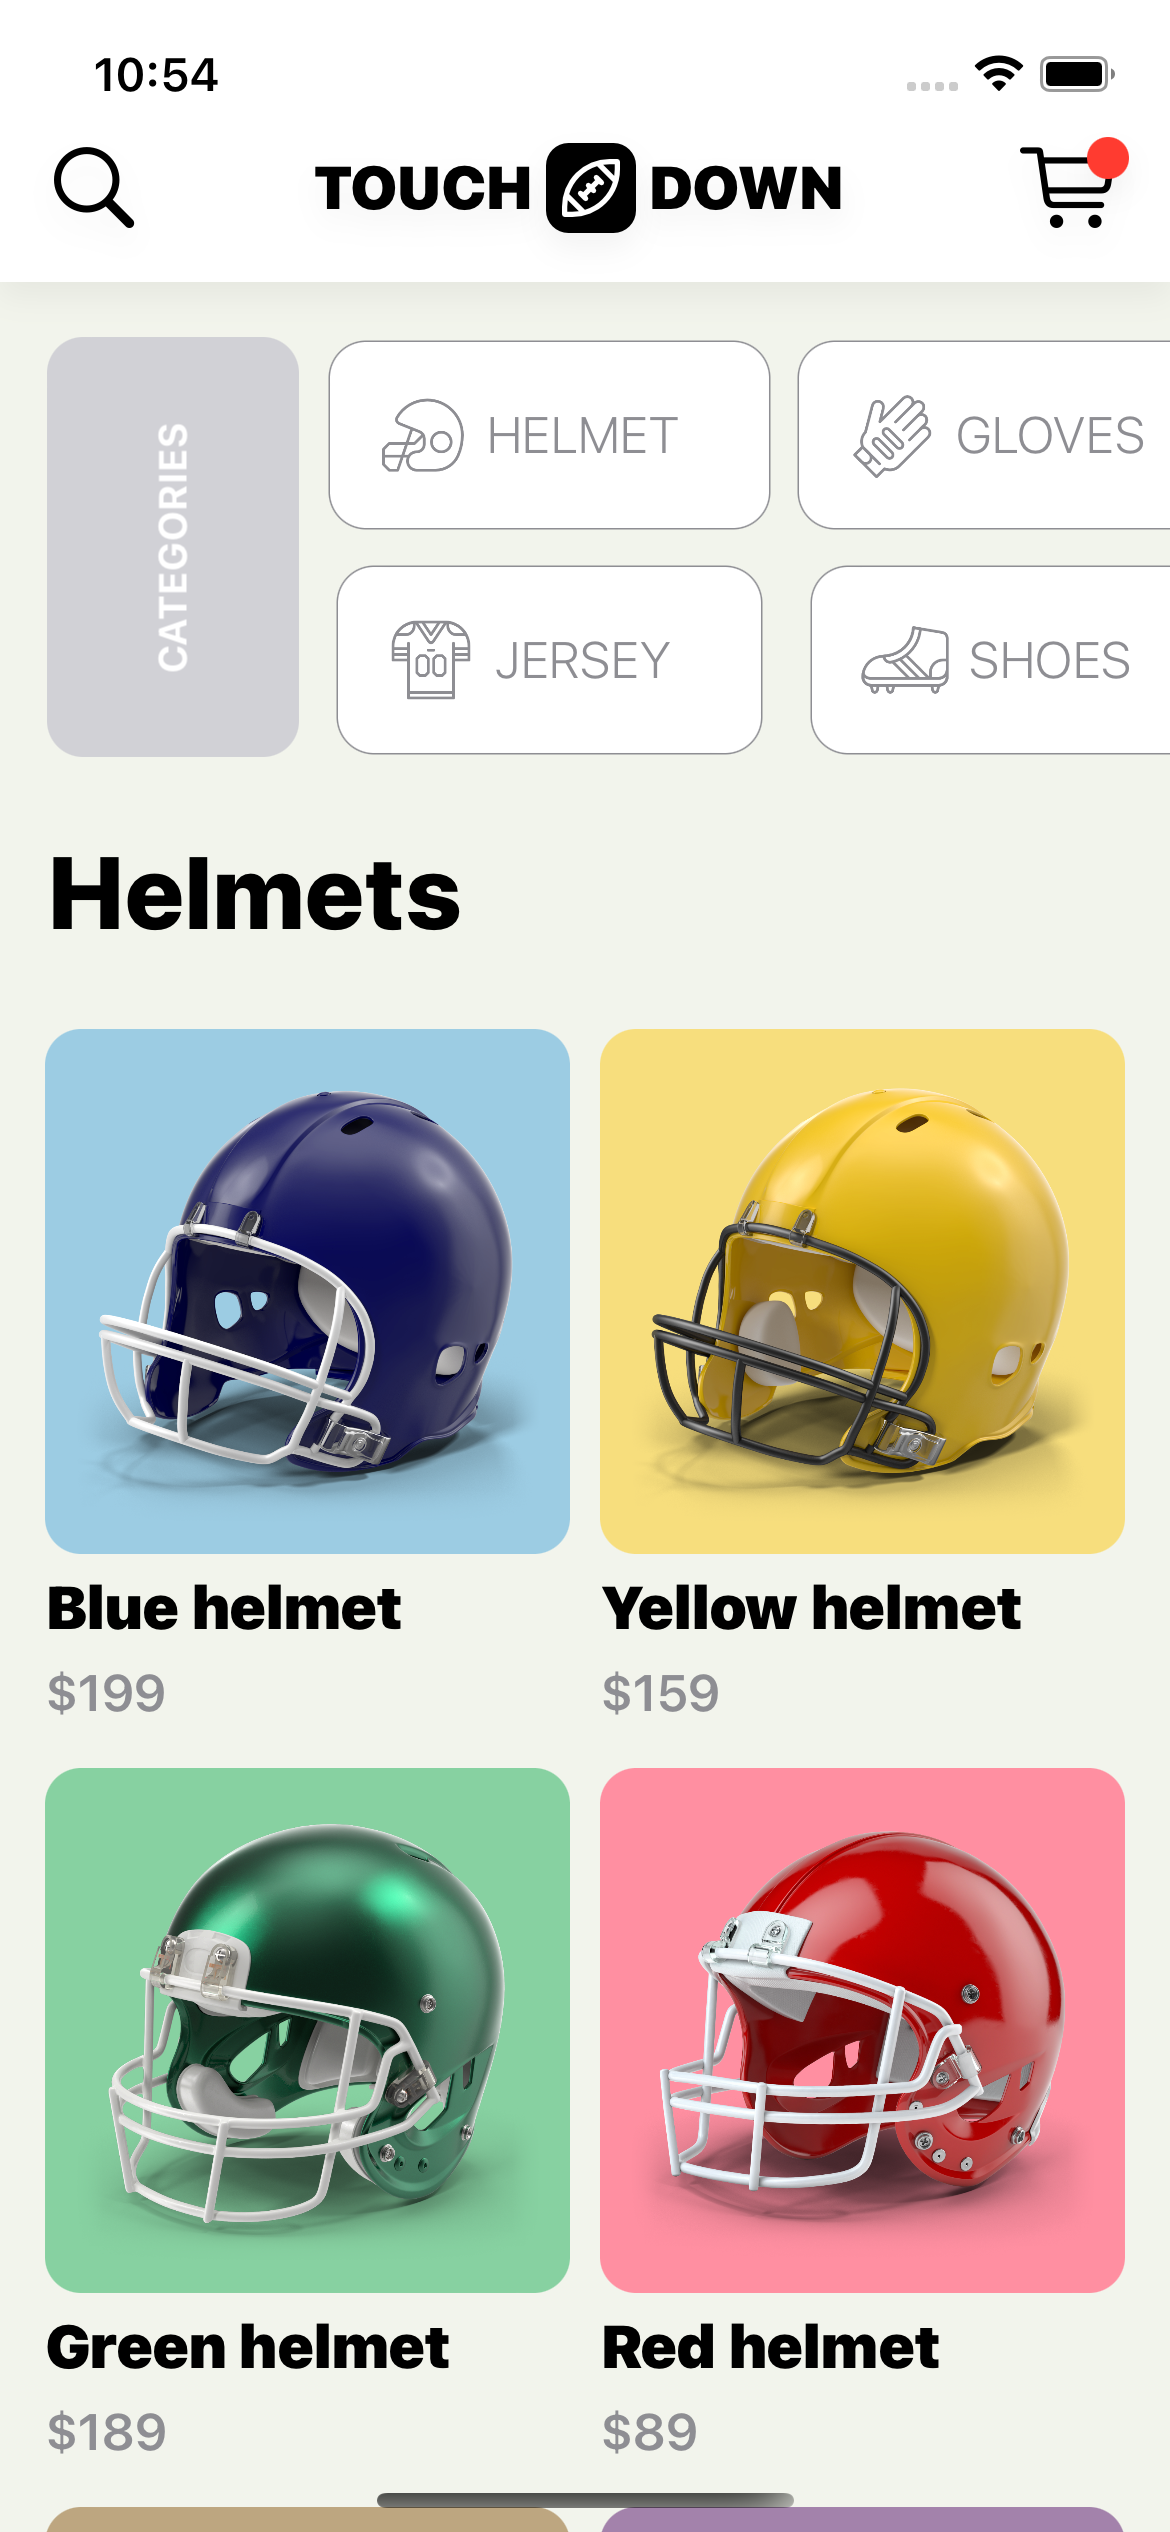
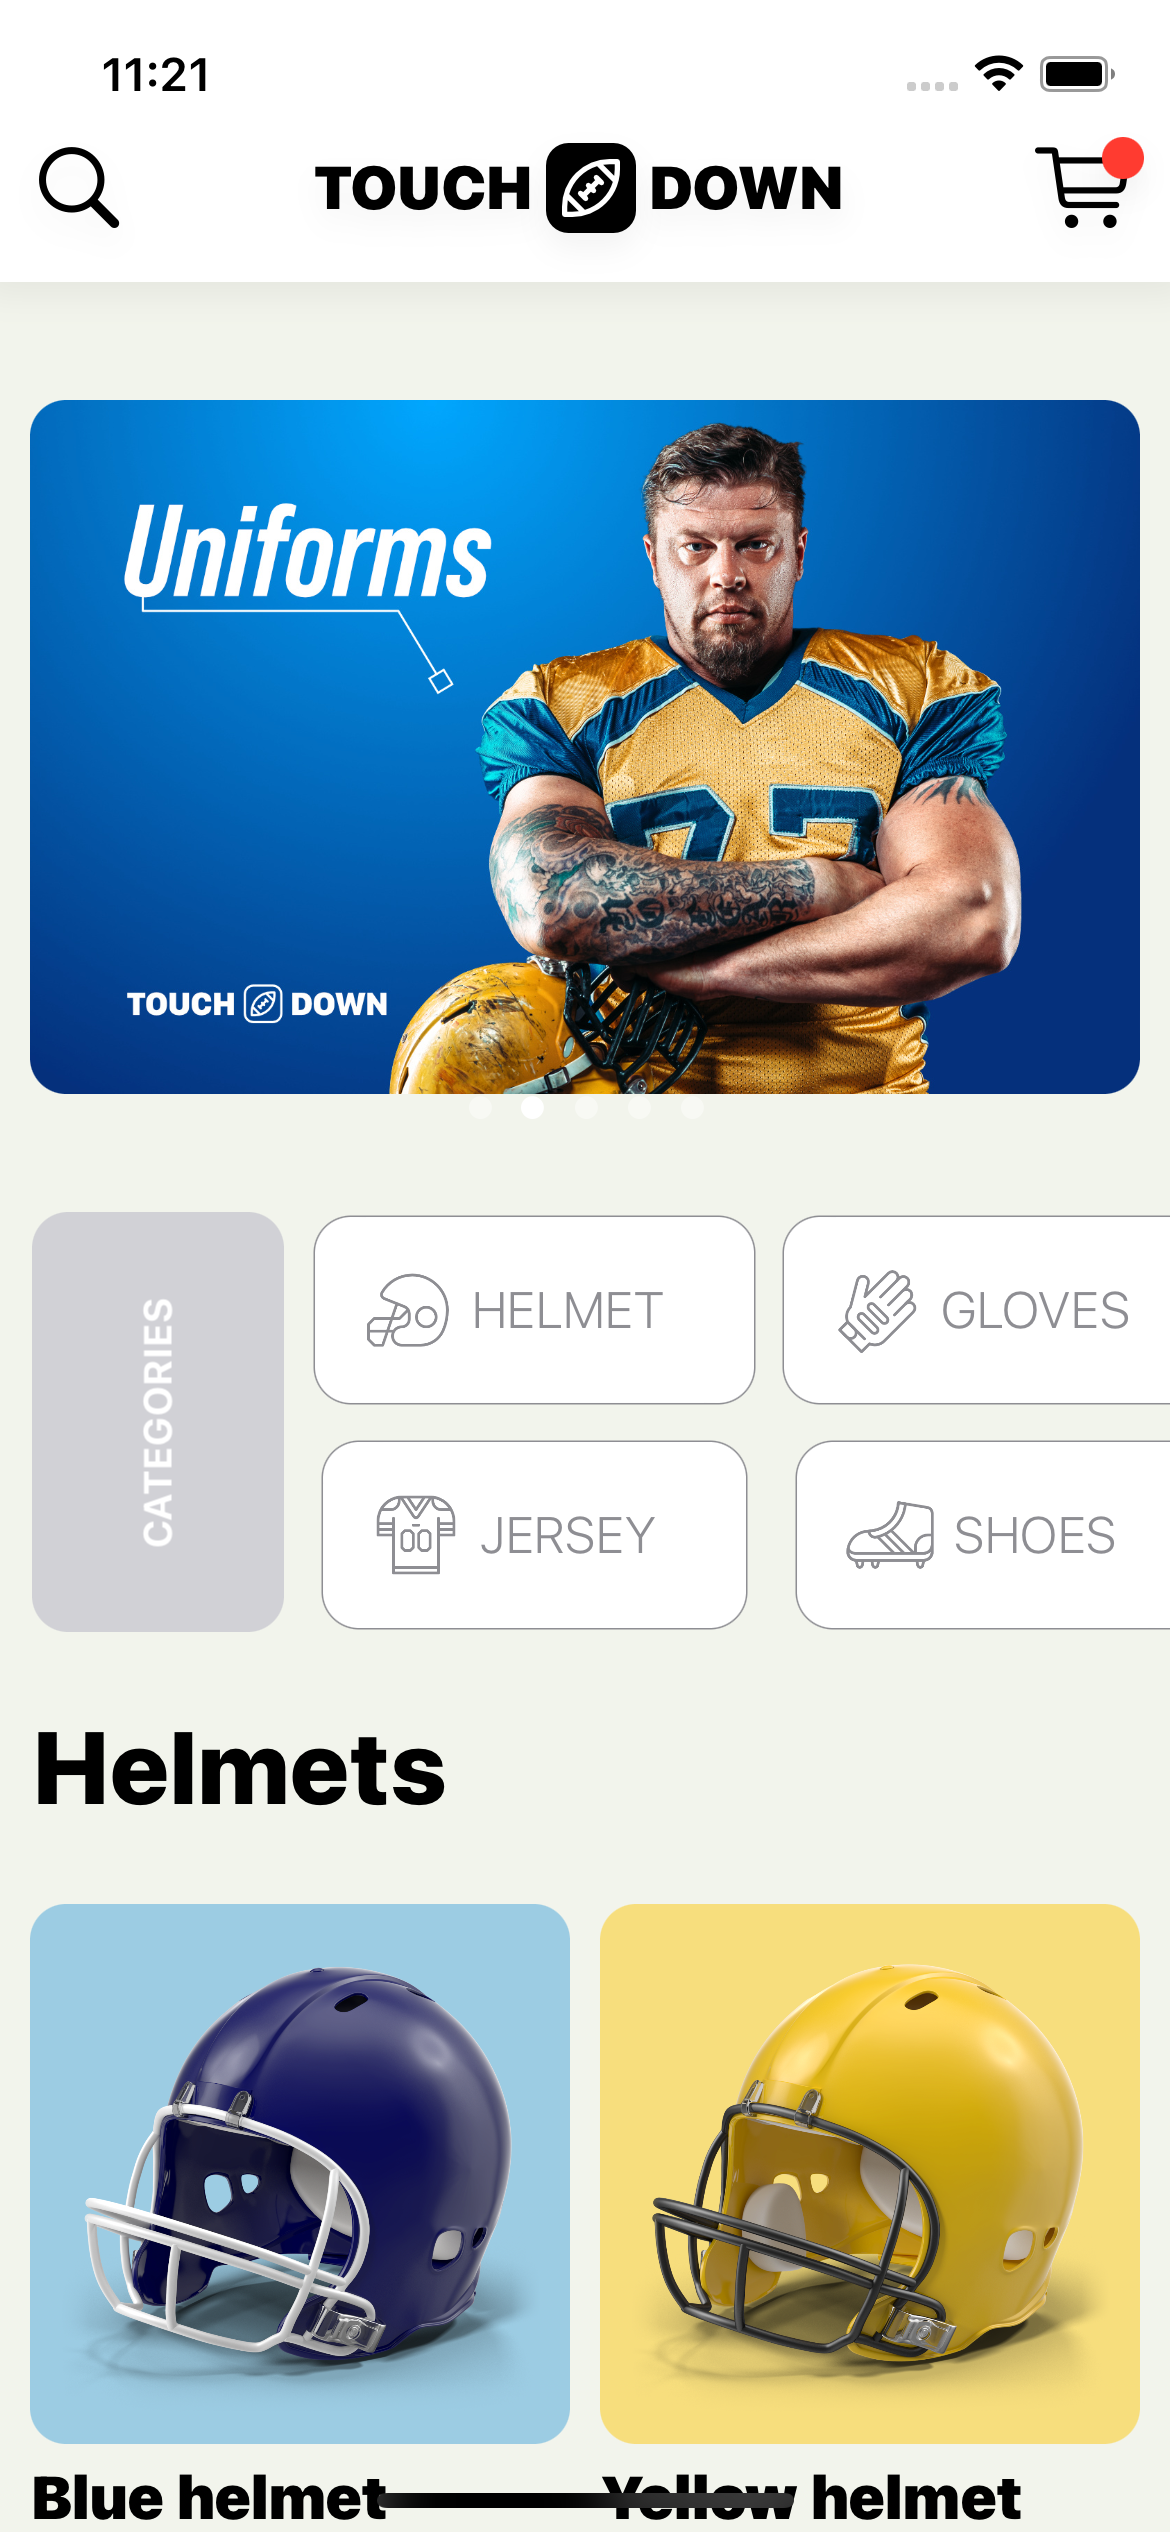
Updated screenshot. Updated readme file.

diff --git a/README.md b/README.md
@@ -1,10 +1,5 @@
 # Touchdown - example `swift` project
 
-### Not resolved project problems for iOS 15
-* `ContentView` file:
-  * `FeaturedTabView` wrong slider size.
-  * `CategoryGridView` grid items in the same columns with different width.
-
 ## Screenshots `iPhone 13 Pro`
 <img src="readme-images/iPhone-13-pro-home-1.png" width="300">
 ---
